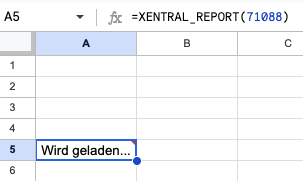
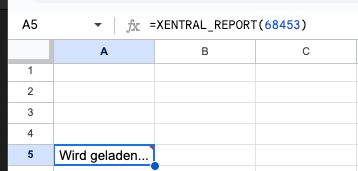
changed to equal syntax + updated pictures

Changed region(s): [[0.0, 0.0, 1.0, 1.0], [0.297, 0.0585, 0.3267, 0.117], [0.2376, 0.0585, 0.2673, 0.117]]

diff --git a/README.md b/README.md
@@ -114,7 +114,7 @@ Use the `XENTRAL_QUERY` function:
 If you have a report saved in Xentral (with an ID), use:
 
 ```excel
-=XENTRAL_REPORT(71088)
+=XENTRAL_REPORT(68453)
 ```
 
 
@@ -122,7 +122,7 @@ If you have a report saved in Xentral (with an ID), use:
 </p>
 
 ---
-> This pulls the result of a saved report with ID `71088`.
+> This pulls the result of a saved report with ID `68453`.
 ---
 
 <img src="images/result.png" alt="result" width="700" style="border-radius:10px; box-shadow: 0 4px 12px rgba(0,0,0,0.2);">
